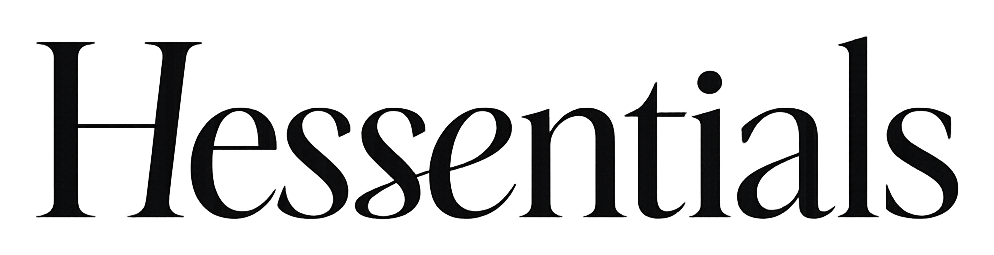
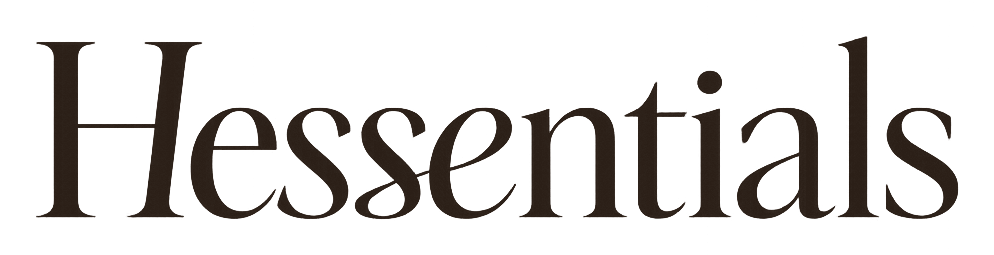
Wordmark recolor #1F1D1B→#2B1F17; homepage nod gesture (header items, beat, wordmark)

Changed region(s): [[0.0312, 0.1373, 0.9668, 0.8784]]

diff --git a/src/app/globals.css b/src/app/globals.css
@@ -536,3 +536,43 @@ body {
   background-color: rgb(31 29 27 / 1); /* text color, full strength */
 }
 
+
+/* ---------- Homepage masthead nod ----------
+   On initial page load of the homepage, the header's nav links and
+   search icon arrive first; after a 250ms beat, the wordmark fades
+   into its masthead position. The eye naturally tracks whatever
+   arrives last — this gives the wordmark its moment without anything
+   that reads as an explicit animation.
+
+   The right read is "huh, I'm here," with the eye landing on the
+   wordmark naturally. If anyone watching it thinks "oh, the wordmark
+   is animating in," the timings need to be softened — the lever is
+   the delay before the wordmark fade and the fade duration itself.
+
+   Applied via classes set in SiteHeader.tsx, gated to pathname === "/".
+   prefers-reduced-motion bypasses both fades — the header simply
+   appears whole. */
+
+@keyframes home-nod-fade-in {
+  from { opacity: 0; }
+  to   { opacity: 1; }
+}
+
+.home-nod-items {
+  opacity: 0;
+  animation: home-nod-fade-in 400ms cubic-bezier(0.4, 0, 0.2, 1) 0ms forwards;
+}
+
+.home-nod-wordmark {
+  opacity: 0;
+  /* 400ms items fade + 250ms beat = 650ms delay. */
+  animation: home-nod-fade-in 400ms cubic-bezier(0.4, 0, 0.2, 1) 650ms forwards;
+}
+
+@media (prefers-reduced-motion: reduce) {
+  .home-nod-items,
+  .home-nod-wordmark {
+    opacity: 1;
+    animation: none;
+  }
+}

diff --git a/src/components/SiteHeader.tsx b/src/components/SiteHeader.tsx
@@ -67,15 +67,33 @@ export default function SiteHeader() {
       />
 
       <div className="mx-auto flex w-full max-w-[1400px] items-center justify-between gap-6 px-6 py-2.5 sm:px-10 sm:py-3 md:px-16">
+        {/* Homepage nod gesture (initial load only): nav + search fade
+            in first, then a 250ms beat, then the wordmark fades into
+            its masthead position. The eye lands on whatever arrives
+            last — this gives the wordmark its moment without an
+            explicit animation gimmick. Suppressed on interior pages
+            and under prefers-reduced-motion (see globals.css). */}
         <Link
           href="/"
           aria-label="Hessentials — home"
-          className="inline-block shrink-0"
+          className={[
+            "inline-block shrink-0",
+            isHome ? "home-nod-wordmark" : "",
+          ]
+            .filter(Boolean)
+            .join(" ")}
         >
           <Wordmark size="nav" priority={isHome} />
         </Link>
 
-        <div className="flex items-center gap-5 sm:gap-8 md:gap-10">
+        <div
+          className={[
+            "flex items-center gap-5 sm:gap-8 md:gap-10",
+            isHome ? "home-nod-items" : "",
+          ]
+            .filter(Boolean)
+            .join(" ")}
+        >
           <nav
             aria-label="Primary"
             className="hidden items-center gap-5 md:flex md:gap-7 lg:gap-9"
